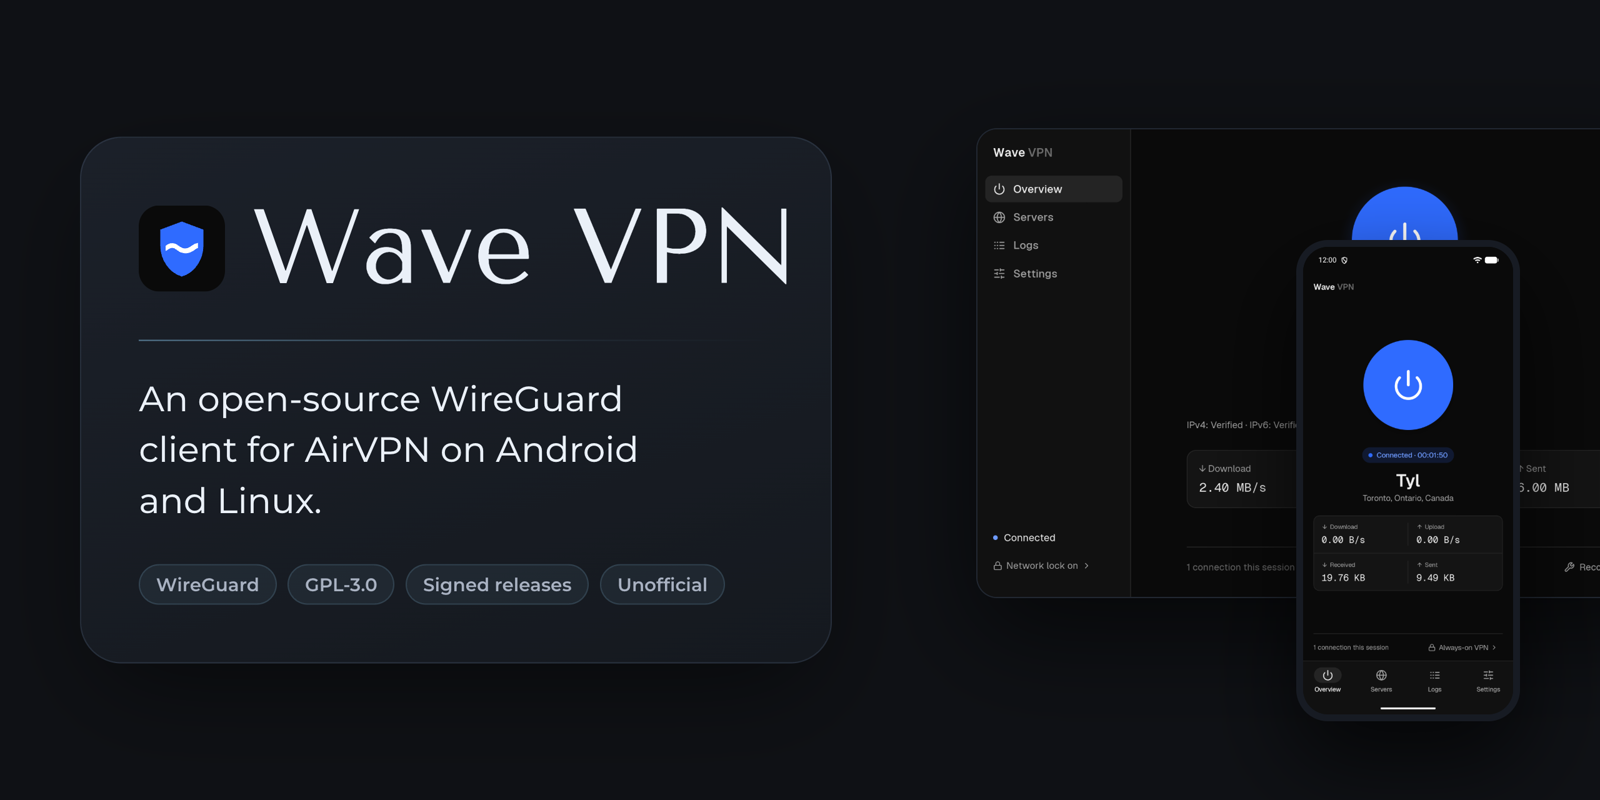
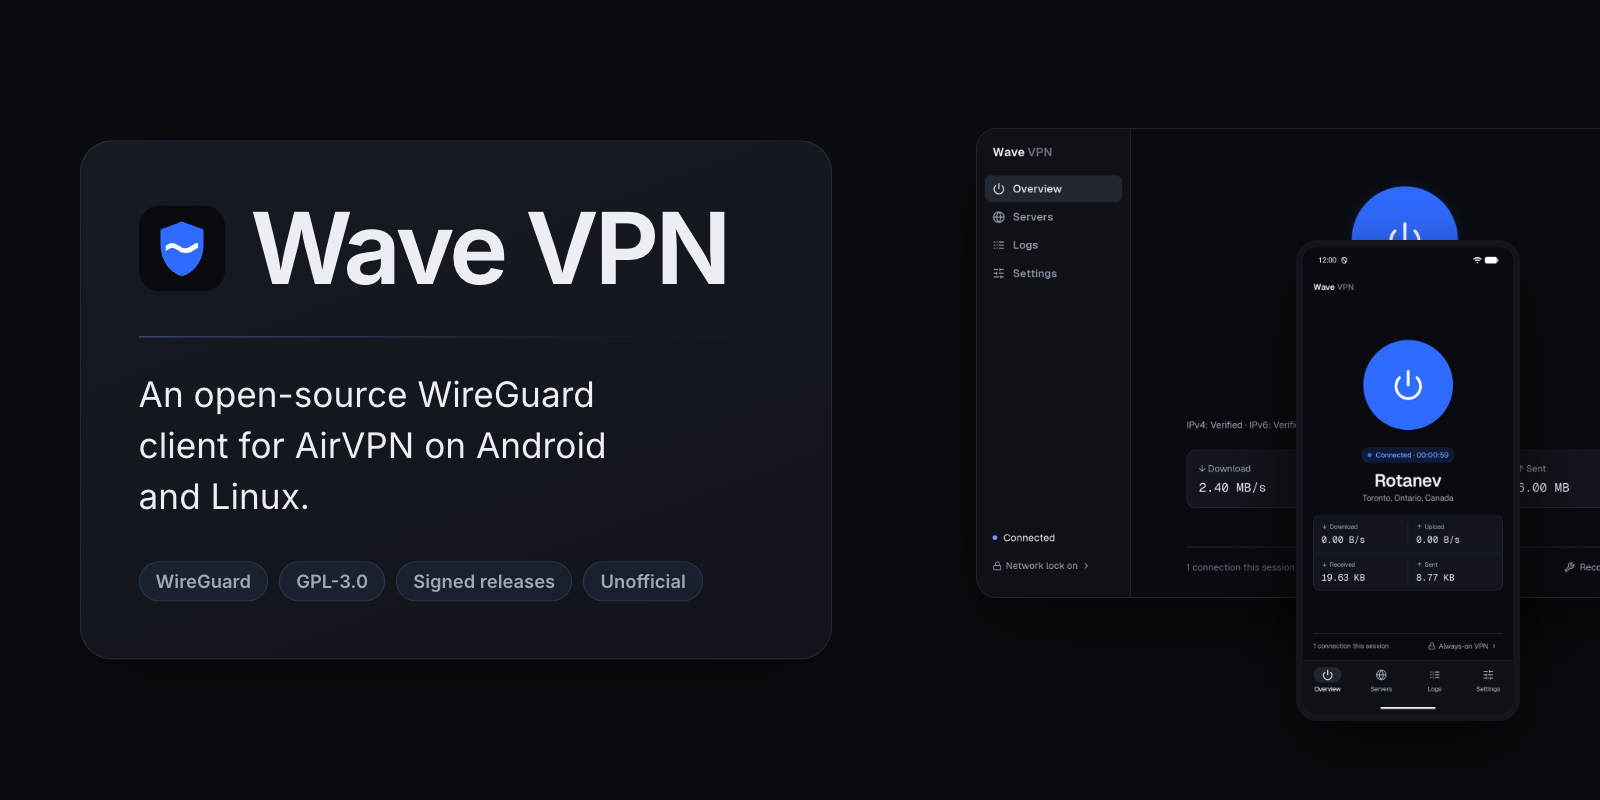
Adopt the VesselWave family look: blue-black dark theme and one corner scale
Dark tokens shift toward the accent hue (same lightness), buttons and segments
become pills, and radii follow the shared 8/12/16 scale used by Wave Remote,
the desktop client and both websites. Screenshots and README cover refreshed.

diff --git a/app/src/main/kotlin/me/vwave/vpn/ui/Theme.kt b/app/src/main/kotlin/me/vwave/vpn/ui/Theme.kt
@@ -20,8 +20,9 @@ import androidx.compose.ui.unit.dp
 import androidx.compose.ui.unit.sp
 import me.vwave.vpn.R
 
-// Shared with the desktop client (archived desktop theme): monochrome with one electric-blue
-// accent, light and dark following the system. Keep the two in step.
+// The VesselWave family palette, shared with the desktop client, Wave Remote and both websites:
+// blue-black greys (tinted toward the accent hue) with one electric-blue accent in dark, plain
+// greys in light, following the system. This file is the origin; keep the others in step.
 
 val Geist = FontFamily(
     Font(R.font.geist_regular, FontWeight.Normal),
@@ -61,16 +62,16 @@ data class Tokens(
 )
 
 val DarkTokens = Tokens(
-    bg = Color(0xFF0A0A0A),
-    sidebar = Color(0xFF111111),
-    surface = Color(0xFF141414),
-    hover = Color(0xFF1C1C1C),
-    pressed = Color(0xFF242424),
-    border = Color(0xFF262626),
-    borderStrong = Color(0xFF3A3A3A),
-    text = Color(0xFFEDEDED),
-    muted = Color(0xFFA1A1A1),
-    faint = Color(0xFF6B6B6B),
+    bg = Color(0xFF090B10),
+    sidebar = Color(0xFF0F1117),
+    surface = Color(0xFF12151C),
+    hover = Color(0xFF1A1E27),
+    pressed = Color(0xFF222731),
+    border = Color(0xFF252A35),
+    borderStrong = Color(0xFF383E4B),
+    text = Color(0xFFECEEF3),
+    muted = Color(0xFF9FA6B5),
+    faint = Color(0xFF6A7182),
     accent = Color(0xFF2F6BFF),
     accentHover = Color(0xFF4A7FFF),
     onAccent = Color.White,
@@ -113,17 +114,25 @@ val LocalTokens = staticCompositionLocalOf { DarkTokens }
 /** The active color tokens. */
 val tokens: Tokens @Composable get() = LocalTokens.current
 
-/** Spacing and corner radii, the desktop's scale in dp. */
+/**
+ * Spacing and corner radii in dp. The radii are the shared VesselWave scale, the same in the
+ * desktop client, Wave Remote and both websites: 8 rows, inputs, menus and tags; 12 cards and
+ * panels; 16 sheets and dialogs; [PillShape] for buttons, chips, segments and badges; circles
+ * for round icon actions.
+ */
 object Dimens {
     val xs = 4.dp
     val sm = 8.dp
     val md = 16.dp
     val lg = 24.dp
     val xl = 32.dp
-    val radiusSm = 6.dp
-    val radiusMd = 8.dp
-    val radiusLg = 12.dp
+    val radiusSm = 8.dp
+    val radiusMd = 12.dp
+    val radiusLg = 16.dp
 }
+
+/** Fully rounded ends: buttons, chips, segment tracks, status badges. */
+val PillShape = RoundedCornerShape(percent = 50)
 
 /**
  * The desktop's type scale (12 / 13 / 14 / 16 / 20 / 34), one step larger for body copy, since a
@@ -197,10 +206,10 @@ fun WaveTheme(content: @Composable () -> Unit) {
             typography = WaveTypography,
             shapes = Shapes(
                 extraSmall = RoundedCornerShape(Dimens.radiusSm),
-                small = RoundedCornerShape(Dimens.radiusMd),
-                medium = RoundedCornerShape(Dimens.radiusLg),
+                small = RoundedCornerShape(Dimens.radiusSm),
+                medium = RoundedCornerShape(Dimens.radiusMd),
                 large = RoundedCornerShape(Dimens.radiusLg),
-                extraLarge = RoundedCornerShape(16.dp),
+                extraLarge = RoundedCornerShape(Dimens.radiusLg),
             ),
             content = content,
         )

diff --git a/app/src/main/kotlin/me/vwave/vpn/ui/Components.kt b/app/src/main/kotlin/me/vwave/vpn/ui/Components.kt
@@ -82,7 +82,7 @@ fun CapFontScale(max: Float, content: @Composable () -> Unit) {
 /** Bordered panel grouping related content (stats, settings list, log). */
 @Composable
 fun Panel(modifier: Modifier = Modifier, content: @Composable ColumnScope.() -> Unit) {
-    val shape = RoundedCornerShape(Dimens.radiusLg)
+    val shape = RoundedCornerShape(Dimens.radiusMd)
     Column(
         modifier
             .fillMaxWidth()
@@ -242,7 +242,7 @@ fun TightText(
 
 // ── Buttons ──────────────────────────────────────────────────────────────
 
-private val ButtonShape = RoundedCornerShape(Dimens.radiusMd)
+private val ButtonShape = PillShape
 
 /** Filled accent button: the one primary action on a screen. */
 @Composable
@@ -399,7 +399,7 @@ fun StatusChip(kind: DotKind, label: String) {
 @Composable
 fun ErrorBanner(text: String, modifier: Modifier = Modifier) {
     val t = tokens
-    val shape = RoundedCornerShape(Dimens.radiusMd)
+    val shape = RoundedCornerShape(Dimens.radiusSm)
     Row(
         modifier
             .fillMaxWidth()
@@ -420,7 +420,7 @@ fun ErrorBanner(text: String, modifier: Modifier = Modifier) {
 /** Track behind a row of [Segment]s. Labels stop growing at 1.5× so the options stay on screen. */
 @Composable
 fun SegmentTrack(modifier: Modifier = Modifier, content: @Composable RowScope.() -> Unit) {
-    val shape = RoundedCornerShape(Dimens.radiusMd)
+    val shape = PillShape
     CapFontScale(1.5f) {
         Row(
             modifier
@@ -438,7 +438,7 @@ fun SegmentTrack(modifier: Modifier = Modifier, content: @Composable RowScope.()
 @Composable
 fun RowScope.Segment(label: String, active: Boolean, onClick: () -> Unit, fill: Boolean = false) {
     val t = tokens
-    val shape = RoundedCornerShape(Dimens.radiusSm)
+    val shape = PillShape
     Box(
         Modifier
             .then(if (fill) Modifier.weight(1f) else Modifier)
@@ -488,7 +488,7 @@ val Quality.color: Color
 @Composable
 fun LoadBar(percent: Int, width: Dp = 56.dp) {
     val fraction = percent.coerceIn(0, 100) / 100f
-    val shape = RoundedCornerShape(2.dp)
+    val shape = PillShape
     Box(Modifier.width(width).height(4.dp).clip(shape).background(tokens.border)) {
         Box(Modifier.width(width * fraction).height(4.dp).clip(shape).background(Quality.fromLoad(percent).color))
     }
@@ -526,7 +526,7 @@ fun SearchField(value: String, onChange: (String) -> Unit, placeholder: String, 
         leadingIcon = { LucideIcon(Lucide.Search, tokens.muted, 18.dp) },
         singleLine = true,
         textStyle = MaterialTheme.typography.bodyLarge,
-        shape = RoundedCornerShape(Dimens.radiusMd),
+        shape = RoundedCornerShape(Dimens.radiusSm),
         colors = waveFieldColors(),
         keyboardOptions = KeyboardOptions(imeAction = ImeAction.Search),
         modifier = modifier,

diff --git a/app/src/main/kotlin/me/vwave/vpn/ui/ServersScreen.kt b/app/src/main/kotlin/me/vwave/vpn/ui/ServersScreen.kt
@@ -244,7 +244,7 @@ private fun SortMenu(sort: SortColumn, ascending: Boolean, onSort: (SortColumn) 
             expanded = open,
             onDismissRequest = { open = false },
             containerColor = t.surface,
-            shape = RoundedCornerShape(Dimens.radiusMd),
+            shape = RoundedCornerShape(Dimens.radiusSm),
         ) {
             for (column in SortColumn.entries) {
                 val active = column == sort
@@ -267,7 +267,7 @@ private fun SortMenu(sort: SortColumn, ascending: Boolean, onSort: (SortColumn) 
 @Composable
 private fun Modifier.serverRow(selected: Boolean, enabled: Boolean = true, onClick: () -> Unit): Modifier {
     val t = tokens
-    val shape = RoundedCornerShape(Dimens.radiusMd)
+    val shape = RoundedCornerShape(Dimens.radiusSm)
     return this
         .fillMaxWidth()
         .heightIn(min = 60.dp)
@@ -287,7 +287,7 @@ private fun BestRow(best: Server?, selected: Boolean, onClick: () -> Unit) {
         horizontalArrangement = Arrangement.spacedBy(12.dp),
     ) {
         Box(
-            Modifier.size(36.dp).clip(RoundedCornerShape(Dimens.radiusMd)).background(t.accentSoft),
+            Modifier.size(36.dp).clip(RoundedCornerShape(Dimens.radiusSm)).background(t.accentSoft),
             contentAlignment = Alignment.Center,
         ) { LucideIcon(Lucide.Zap, t.accentFg, 18.dp) }
         Column(Modifier.weight(1f)) {

diff --git a/app/src/main/kotlin/me/vwave/vpn/ui/LoginScreen.kt b/app/src/main/kotlin/me/vwave/vpn/ui/LoginScreen.kt
@@ -68,7 +68,7 @@ fun LoginScreen(vm: AppViewModel) {
             label = { Text("Username") },
             singleLine = true,
             enabled = !busy,
-            shape = RoundedCornerShape(Dimens.radiusMd),
+            shape = RoundedCornerShape(Dimens.radiusSm),
             colors = waveFieldColors(),
             keyboardOptions = KeyboardOptions(keyboardType = KeyboardType.Ascii, imeAction = ImeAction.Next, autoCorrectEnabled = false),
             modifier = Modifier.fillMaxWidth().semantics { contentType = ContentType.Username },
@@ -79,7 +79,7 @@ fun LoginScreen(vm: AppViewModel) {
             label = { Text("Password") },
             singleLine = true,
             enabled = !busy,
-            shape = RoundedCornerShape(Dimens.radiusMd),
+            shape = RoundedCornerShape(Dimens.radiusSm),
             colors = waveFieldColors(),
             visualTransformation = if (showPassword) VisualTransformation.None else PasswordVisualTransformation(),
             keyboardOptions = KeyboardOptions(keyboardType = KeyboardType.Password, imeAction = ImeAction.Done),

diff --git a/app/src/main/kotlin/me/vwave/vpn/ui/SettingsScreen.kt b/app/src/main/kotlin/me/vwave/vpn/ui/SettingsScreen.kt
@@ -144,7 +144,7 @@ fun SettingsScreen(vm: AppViewModel, onSplitTunneling: () -> Unit) {
         "logout" -> AlertDialog(
             onDismissRequest = { dialog = null },
             containerColor = t.surface,
-            shape = RoundedCornerShape(Dimens.radiusLg),
+            shape = RoundedCornerShape(Dimens.radiusMd),
             title = { Text("Sign out?", style = MaterialTheme.typography.titleLarge) },
             // Dialog text doesn't scroll on its own; large text would cut the message off.
             text = {
@@ -176,7 +176,7 @@ fun <T> ChoiceDialog(
     AlertDialog(
         onDismissRequest = onDismiss,
         containerColor = t.surface,
-        shape = RoundedCornerShape(Dimens.radiusLg),
+        shape = RoundedCornerShape(Dimens.radiusMd),
         title = { Text(title, style = MaterialTheme.typography.titleLarge) },
         text = {
             Column(Modifier.verticalScroll(rememberScrollState())) {

diff --git a/CHANGELOG.md b/CHANGELOG.md
@@ -1,5 +1,11 @@
 # Changelog
 
+## Unreleased
+
+**Changed**
+
+- VesselWave family look shared with Wave Remote and both websites: blue-black dark theme, pill buttons and segments, one corner scale (8/12/16)
+
 ## 0.1.0 · 2026-11-02 · early release
 
 First public build. [Release notes](docs/RELEASE-v0.1.0.md).
